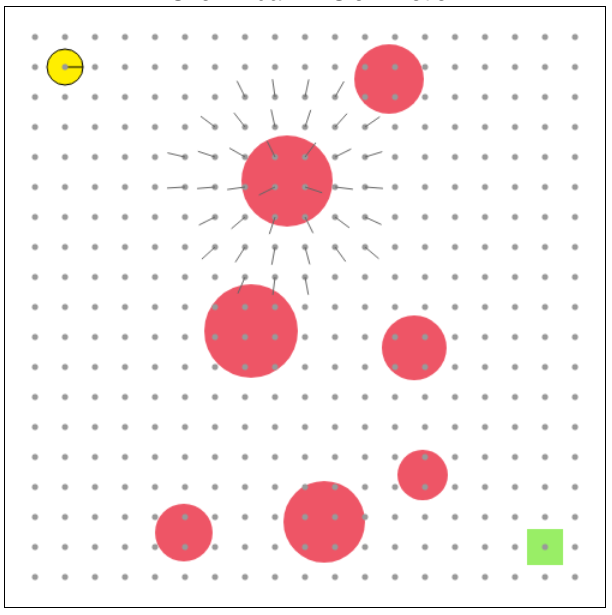
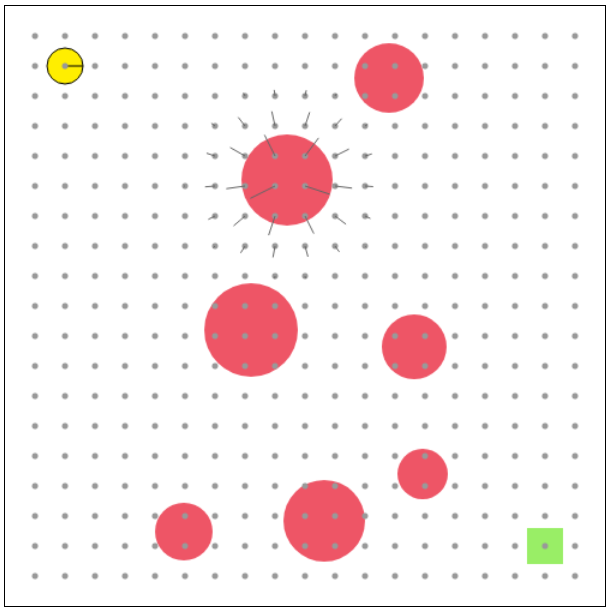
Improve figures (assign. 6 wip)

diff --git a/assign6_path_planning/README.md b/assign6_path_planning/README.md
@@ -27,7 +27,7 @@ Next we see the field only due to the 2nd obstacle from the top, first unlimited
 
 ![force field](field_obsinf.png)
 
-Then with its spread set to *s*=50 px:
+Then with its spread set to *s*=50 px, notice how the field smoothly drops of as it gets to the edge of the spread:
 
 ![force field](field_obs.png)
 
